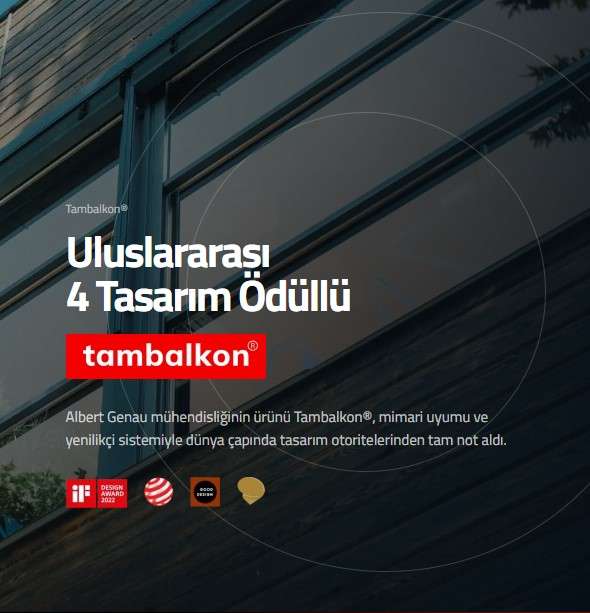
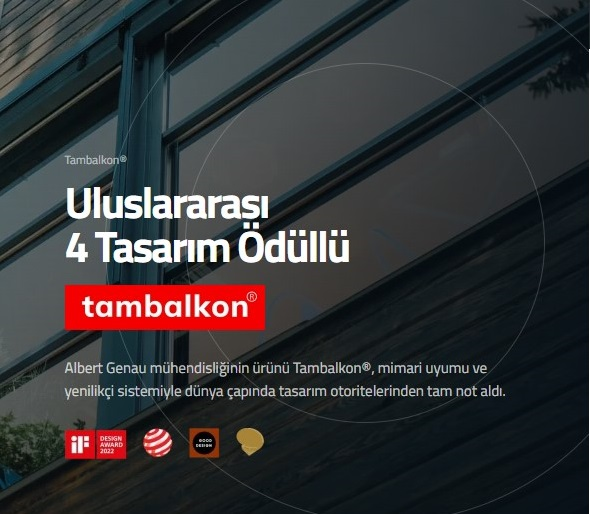
feat: add bottom image features to giyotin tam balkon

diff --git a/app/urunler/[slug]/ProductClient.tsx b/app/urunler/[slug]/ProductClient.tsx
@@ -38,6 +38,11 @@ export const PRODUCT_DATA: any = {
       { icon: 'fas fa-pen-ruler', title: 'Estetik ve Fonksiyonellik', desc: 'Az profilli tasarımı ve açıldığında korkuluk görevi görmesiyle şık ve estetik bir balkon keyfi sunar. Minimalist bir şıklık, mükemmel fonksiyon.' },
       { icon: 'fas fa-wind', title: 'Havalandırma Seçenekleri', desc: 'Tam açık, tam kapalı veya istediğiniz aralıkta. Tambalkon, size dilediğiniz şekilde havalandırma seçeneği sunarak maksimum fonksiyonellik sağlar.' }
     ],
+    bottomFeatures: [
+      { img: '/images/cambalkon/Kumandali-Cambalkon.webp', title: 'Tam Otomatik Kumandalı Kolaylık', desc: 'Bir tuşla açın, kapatın, kontrol tamamen sizde. Tambalkon®, uzaktan kumanda ile pratik ve konforlu bir cam balkon deneyimi sunar.' },
+      { img: '/images/cambalkon/Yer-Kazandiran-Giyotin-Cambalkon.webp', title: 'Tambalkon Yer Kazandıran Giyotin Cam Balkon', desc: 'Yer Kazandıran Tasarım. Katlanır cam sistemleri birikme yapar, yer kaybettirir. Tambalkon aşağı ve yukarı hareket eden camlar ile yer tasarrufu sağlar, alanınızı genişletir. Hayalinizdeki balkonu dekore edebilirsiniz.' },
+      { img: '/images/cambalkon/Panoramik-Manzara-Giyotin-Cambalkon.webp', title: 'Tambalkon Panoramik Manzara', desc: 'Tam Panoramik Manzara. Minimal profiller ve geniş cam yüzeyler, manzaranızı kesintisiz algılamanızı sağlar. Tambalkon®, balkona daha ferah ve modern bir atmosfer kazandırır.' }
+    ],
     testimonials: [
       { text: 'Balkonum artık her gün kullanılabilir durumda.', name: 'Seda A.', city: 'İstanbul' },
       { text: 'Görüntü kesintisiz, temizliği de çok pratik.', name: 'Murat K.', city: 'İzmir' },
@@ -791,6 +796,24 @@ export default function ProductClient({ slug }: { slug: string }) {
               ))}
             </div>
           </section>
+
+          {product.bottomFeatures && product.bottomFeatures.length > 0 && (
+            <section className={styles.features}>
+              <div className={styles.featuresGrid}>
+                {product.bottomFeatures.map((f: any, i: number) => (
+                  <div key={i} className={styles.featureCard}>
+                    <div className={styles.featureCardImg}>
+                      <Image src={f.img} alt={f.title} fill />
+                    </div>
+                    <div className={styles.featureCardBody}>
+                      <h3 className={styles.featureCardTitle}>{f.title}</h3>
+                      <p className={styles.featureCardDesc}>{f.desc}</p>
+                    </div>
+                  </div>
+                ))}
+              </div>
+            </section>
+          )}
 
           {product.sections?.map((section: any, idx: number) => {
             if (section.type === 'text_image') {